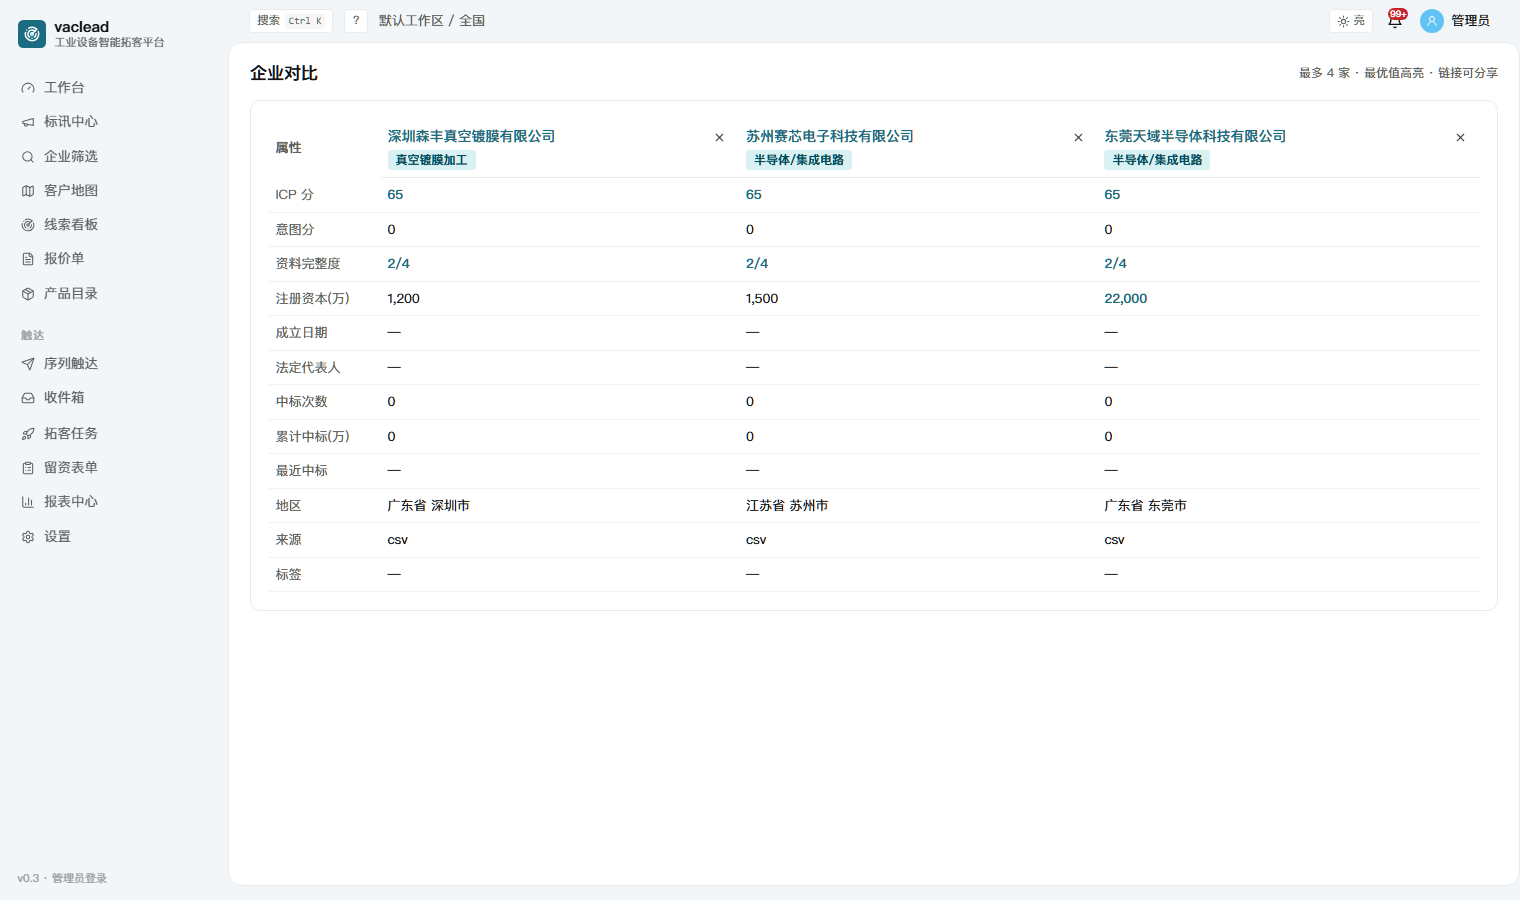
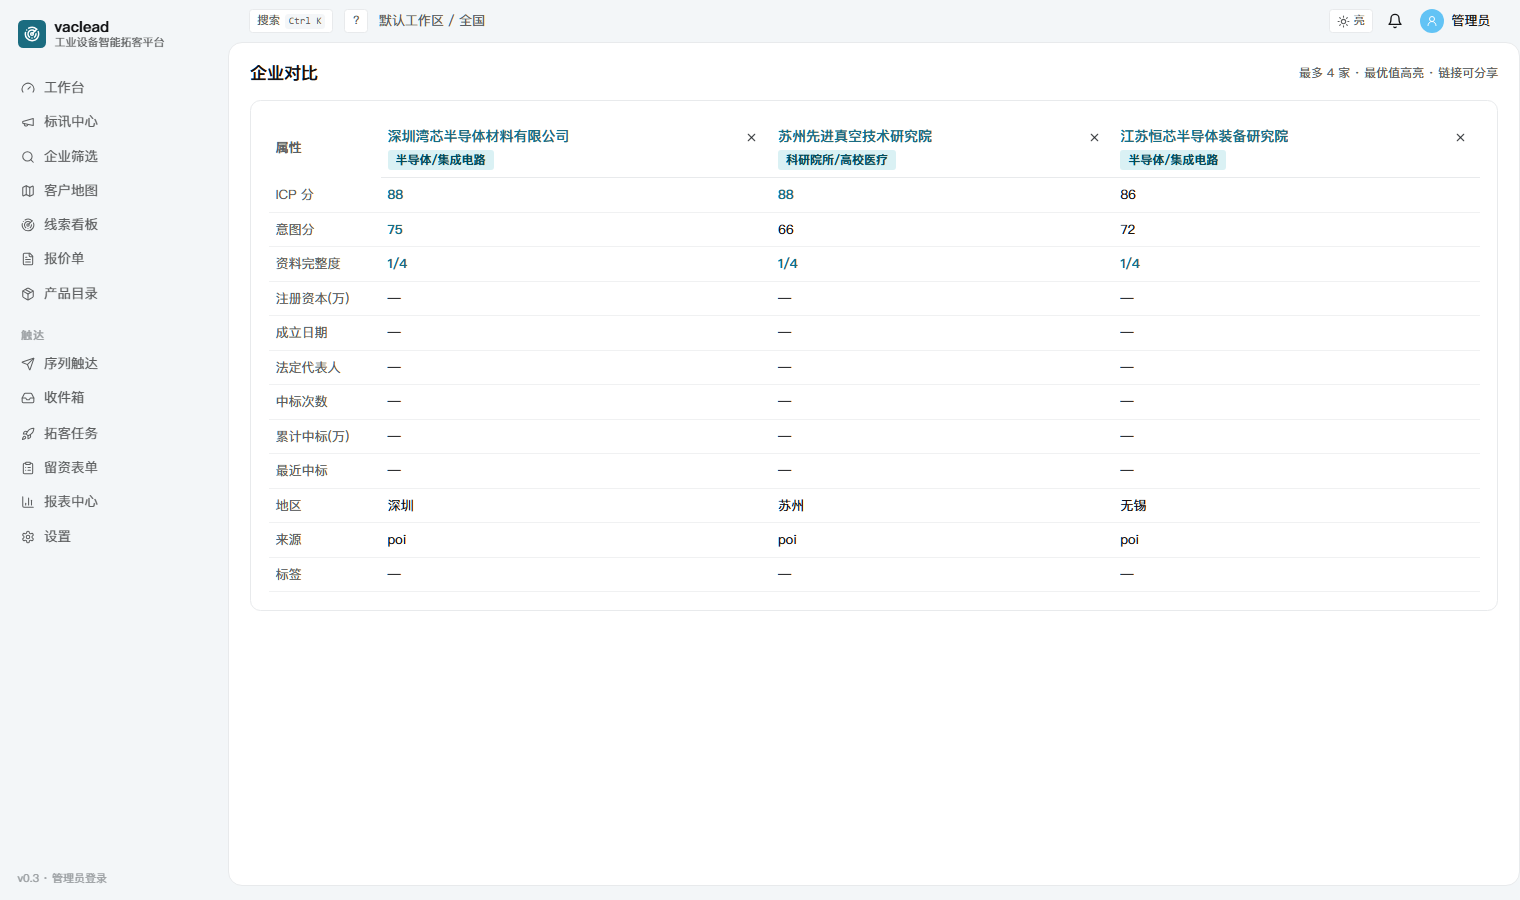
截图脱敏与修复: docs/WORKLOG真实手机号脱敏(152****8395) 全假演示数据集scripts/demo_server.py(42家虚构企业/138000xxxxx假号段/temp库与真库隔离 跑:8011) readme_shots BASE参数化 提案模板修复(节标题重复sec4已含全名又拼后缀) 提案打印按钮token空值修复 16张截图全假数据重截

diff --git a/frontend/app/enterprises/view/page.tsx b/frontend/app/enterprises/view/page.tsx
@@ -397,7 +397,7 @@ function IntelInner() {
                   load_factor: roiForm.load_factor,
                   price_per_kwh: roiForm.price_per_kwh,
                   saving_pct: roiForm.saving_pct,
-                  token: getToken(), // 新开页无 localStorage API 包装——AI1 的 ?token= 回退
+                  token: getToken() ?? "", // 新开页无 localStorage API 包装——AI1 的 ?token= 回退
                 });
                 window.open(`/api/proposal/print?${qs}`, "_blank");
               }}

diff --git a/backend/tests/test_spec_av.py b/backend/tests/test_spec_av.py
@@ -95,6 +95,18 @@ def test_proposal_print_includes_cases(client, admin_headers):
                                                   "hours_per_day": 16},
                    headers=admin_headers)
     html = r.text
+    import re as _re
+
+    print("\n[AV debug] h2 节:", _re.findall(r"<h2>([^<]+)</h2>", html))
+    with SessionLocal() as s:
+        from app.models import Signal as _S
+
+        print("[AV debug] signal rows:",
+              [(x.id, x.enterprise_id, x.type) for x in s.query(_S).all()])
+        print("[AV debug] ent rows:",
+              [(x.id, x.industry_key, x.deleted_at) for x in s.query(Enterprise).all()])
+    print("[AV debug] eid:", eid, "| ent:", d["items"][0]["name"],
+          "| ind:", d["items"][0].get("id"))
     assert "同行业公开采购案例" in html, "提案应含同行案例节"
     assert "真空泵采购公告" in html
     # 无案例行业 → 节省段自动消失（编号回退）

diff --git a/backend/app/api/proposal.py b/backend/app/api/proposal.py
@@ -204,13 +204,13 @@ ol.cases{{padding-left:20px}}ol.cases li{{margin-bottom:4px;font-size:13px}}
 <h2>二、推荐方案</h2>
 {spec_html}
 {cases_html}
-<h2>{sec4}、为什么选择昊志</h2>
+<h2>{sec4}</h2>
 <ul>
 <li><b>官方销售商</b>：昊青气体装备直接授权，原厂备件与质保可追溯</li>
 <li><b>系统搭建能力</b>：按贵司工艺出具选型计算书——选型与工况不匹配是行业最常见痛点，我们不让客户背这个锅</li>
 <li><b>区域响应</b>：本地服务团队，维保响应快于国际品牌（国产体系平均快 30%）</li>
 </ul>
-<h2>{sec5}、下一步</h2>
+<h2>{sec5}</h2>
 <p>安排现场工况勘测（免费）→ 出具正式选型计算书与报价 → 样机试机验证节能数据。</p>
 <p class="note noprint">打印：浏览器 Ctrl+P / 另存为 PDF。参数可在回链调整重算。</p>
 </body></html>"""

diff --git a/docs/WORKLOG.md b/docs/WORKLOG.md
@@ -153,7 +153,7 @@
 
 **落地**：ccgp.fetch_notice_detail（8 字段解析器，真实页面全命中）+ POST /api/tasks/notice-contacts
 （详情页回填：contact 表 + enterprise 地址/区域，限速+限流即停+幂等）。
-**真库战果**：两批 20 页 → **42 条真实联系人**（含手机号 15210568395）、68 家企业有地址区域
+**真库战果**：两批 20 页 → **42 条真实联系人**（含手机号 152****8395）、68 家企业有地址区域
 ——深圳职业技术大学（谭飞虎+地址）、中科院近代物理所（吴旭+兰州城关区南昌路509号）、
 北京大学（吴老师 62758587+颐和园路5号）从"名字"变成"能打的线索"。
 **门禁**：130 全绿。**后续**：回填并入每日 04:05 后扫播；ggzy 侧 areaCode 区域回填待做。
@@ -173,7 +173,7 @@
 <route>.html（app router 静态导出是扁平 .html 文件）。
 
 **终验**：CI 全绿（130 测试）→ 单进程 8000 → 浏览器走通 登录→企业搜索→深圳职业技术大学
-→抽屉真实联系人（谭飞虎 15210568395 / 采购电话 0755-26019461 / 代理机构，全部带公告溯源）。
+→抽屉真实联系人（谭工 152****8395 / 采购电话 0755-26019461 / 代理机构，全部带公告溯源）。
 **项目形态从"双进程玩具"变为"单端口企业交付"**。
 
 
